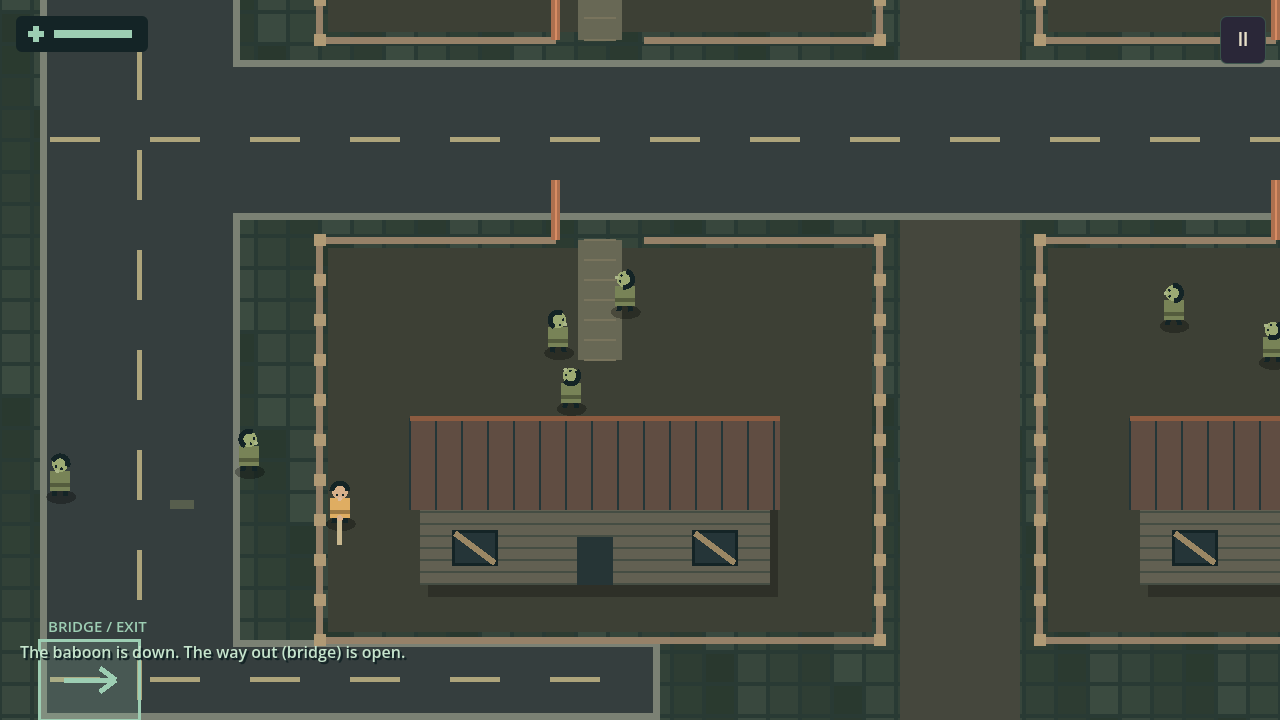
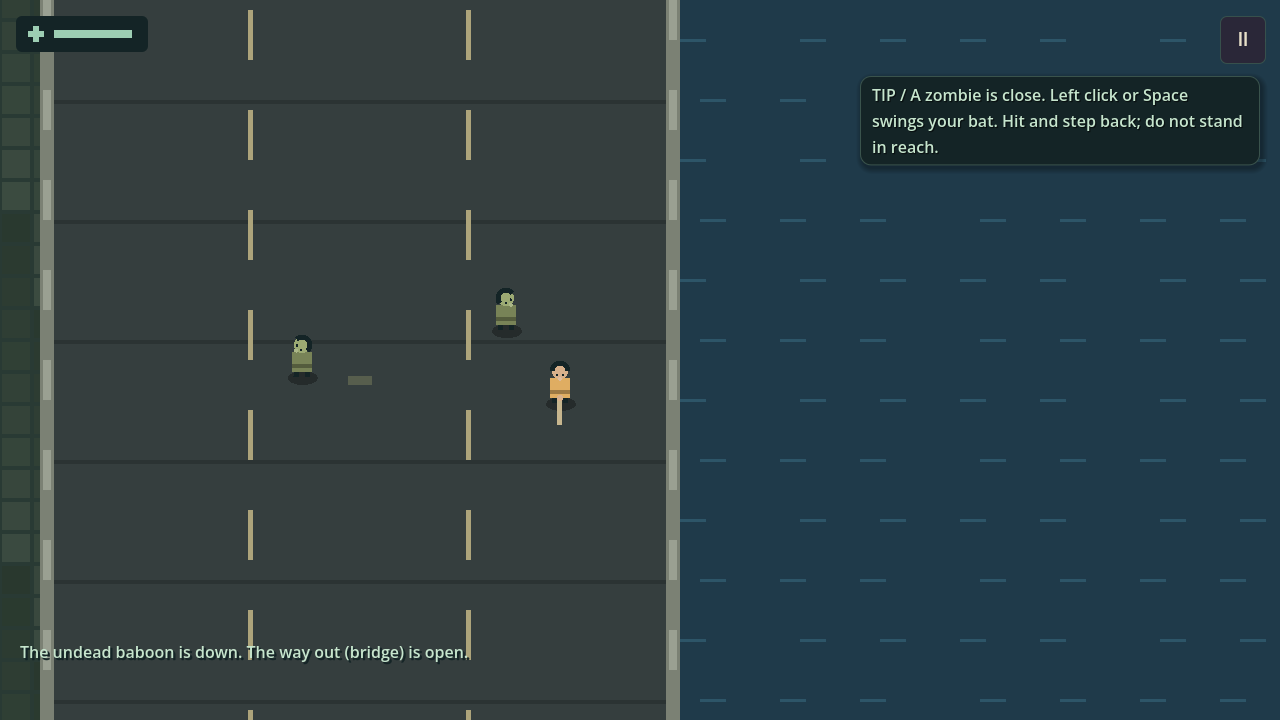
The suburb exit is a giant bridge over water: a 640x1080 deck for the baboon fight (bridge arena)

diff --git a/docs/PROGRESS.md b/docs/PROGRESS.md
@@ -270,3 +270,9 @@ Still needing development (second look, most important first):
 
 - `objective.reclaim` in each `area.json` lists the lots that area asks the player to hold (suburb: home, garden, library, garage; office: home, maintenance, atrium, car park; works: home, parts store, gatehouse, yard office), validated by the catalog. `slice_objective.gd` derives the HUD goal and READINESS from it: garden, harvest and workshop/equipment steps apply only where a lot of that kind is listed, so the office and works no longer ask for a garden.
 - Parse, catalog, save, tips, boss, travel, office and industrial checks pass. Not seen in the HUD of the other areas.
+
+## 30 October 2026: the bridge is a real arena
+
+- The suburb's map grew from 2180 to 3300 tall: a 640 x 1080 bridge deck (new street kind `bridge`, parapets, lanes, expansion joints) runs south from the estate's south-west corner over open water (`terrain.water` in `area.json`: impassable on foot and for the van, but not for globs or sight). The baboon holds the middle of the deck (post 360,2760, leash 420, escorts either side), the blocked exit is a full-width roadblock at the far end, and migrations now enter at the far end of the bridge and walk the length of the deck past the baboon.
+- Existing saves still load (positions all fall inside the old bounds; the boss walks back to its new post). `check_pressure` now asserts no raider strays east of x=700 instead of using the old spur height. Parse, catalog, boss, pressure, save, travel, ring, spitter and sim_boss run; frames `boss_bridge_approach` and `boss_baboon_post` were looked at.
+- Not done: the office and works exits are still short roads; the fight on the wider deck has not been played, and the baboon may now be easy to circle (its lunge was tuned for a narrow post).
